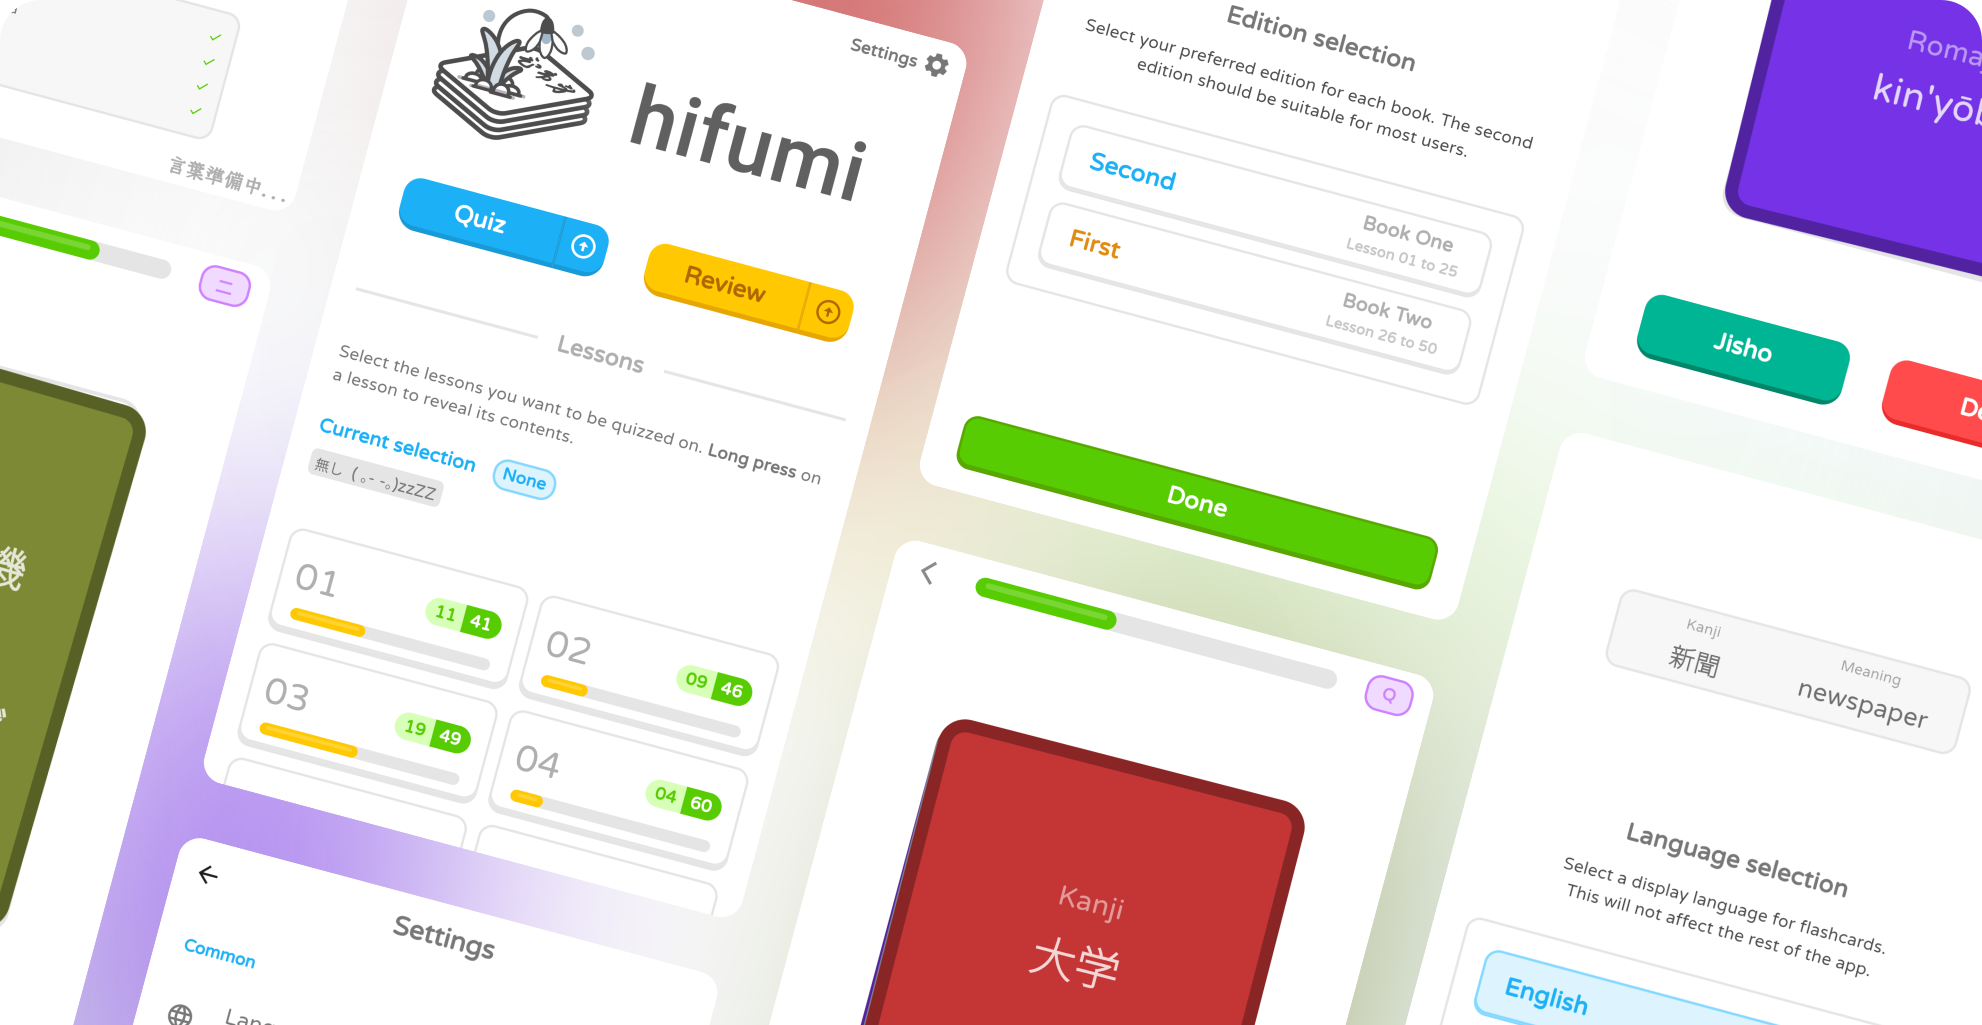
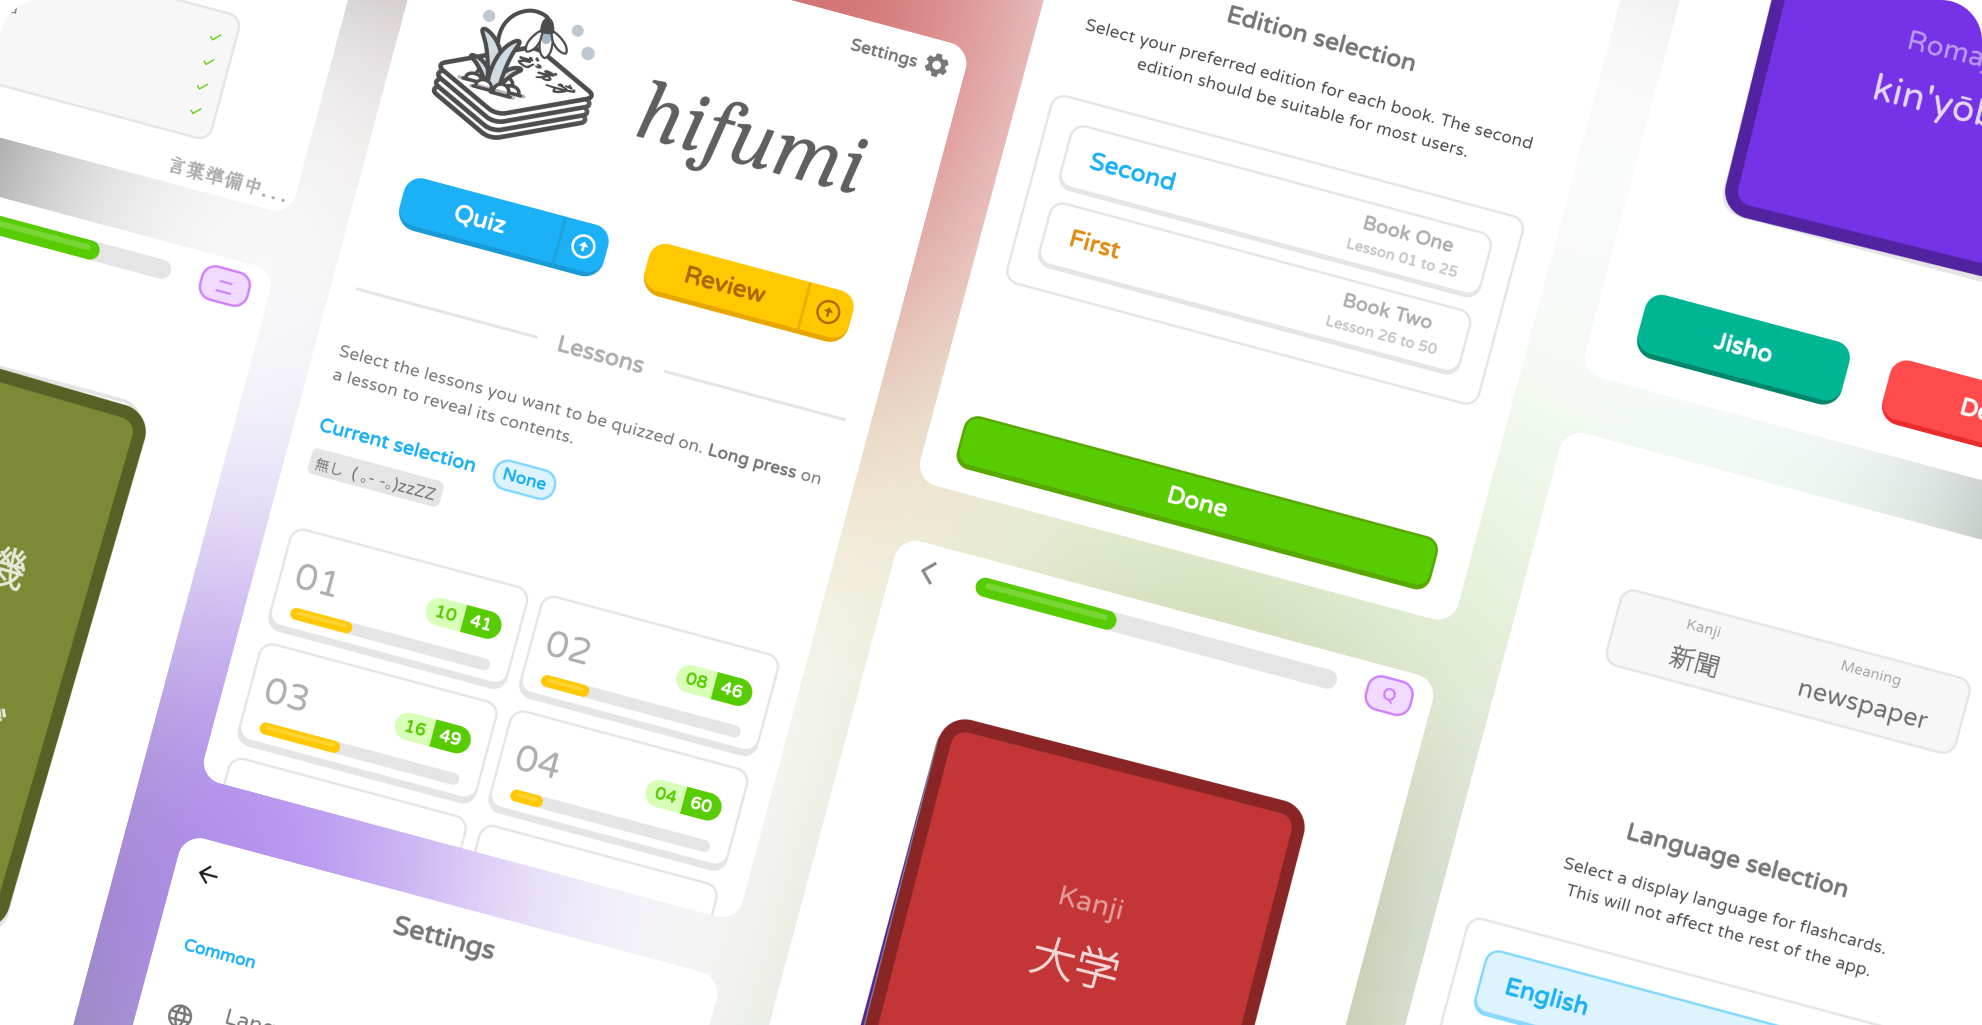
fix(ui): actual new logotype

diff --git a/README.md b/README.md
@@ -154,7 +154,6 @@ I might have got a little carried away when deciding on folder names, so here's 
 
   (fancy reaching out ? claim your [Free OSINT Technique™](https://cheatsheet.haax.fr/open-source-intelligence-osint/platforms-hunting/github/#finding-user-e-mail))
 - The *dataset* from which all words are sourced lives on GitHub as a separate project : [`MinnaNoDS`](https://github.com/vitto4/MinnaNoDS).
-- The *hifumi* logotype uses the splendid [ふわりとくるり](https://flopdesign.booth.pm/items/6409294) font by **フロップデザイン** ; they have so many great typefaces can't recommend enough !
 - Files starting with an `@` symbol are definitions of basic concepts and building blocks for the app.
   I wanted them grouped together. It may not be pretty, but it works c:
 - To save on asset size, fonts have been subsetted.
